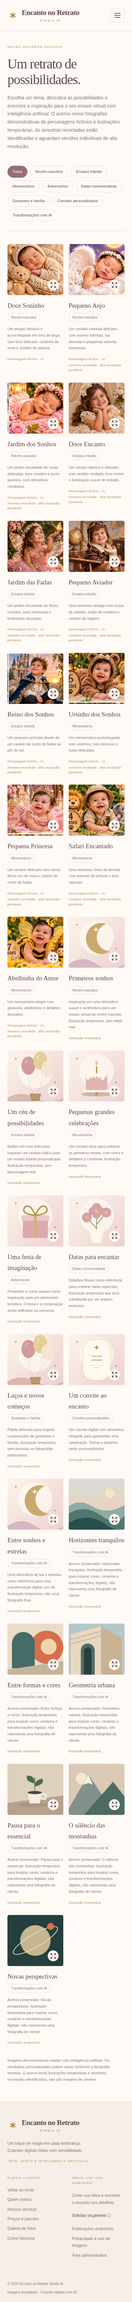
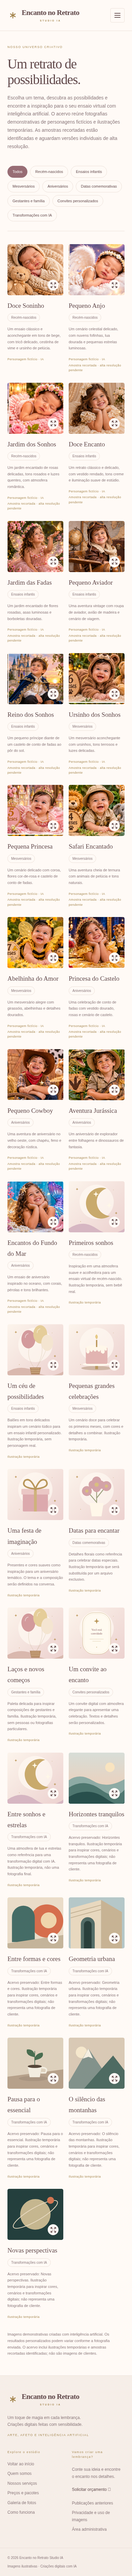
Add themed birthday demo collection with sample quality records and prompt documentation

diff --git a/src/lib/birthday-collection.ts b/src/lib/birthday-collection.ts
@@ -1,0 +1,43 @@
+import type { Photo } from "./studio";
+export const birthdayCollection: Photo[] = [
+  {
+    id: "ani-01",
+    title: "Princesa do Castelo",
+    album: "Aniversários",
+    image: "/images/aniversarios/ANI_01_Princesa_do_Castelo.jpg",
+    description:
+      "Uma celebração de conto de fadas com vestido dourado, rosas e cenário de castelo.",
+    kind: "ai",
+    sample: true,
+  },
+  {
+    id: "ani-02",
+    title: "Pequeno Cowboy",
+    album: "Aniversários",
+    image: "/images/aniversarios/ANI_02_Pequeno_Cowboy.jpg",
+    description:
+      "Uma aventura de aniversário no velho oeste, com chapéu, feno e decoração rústica.",
+    kind: "ai",
+    sample: true,
+  },
+  {
+    id: "ani-03",
+    title: "Aventura Jurássica",
+    album: "Aniversários",
+    image: "/images/aniversarios/ANI_03_Aventura_Jurassica.jpg",
+    description:
+      "Um aniversário de explorador entre folhagens e dinossauros de fantasia.",
+    kind: "ai",
+    sample: true,
+  },
+  {
+    id: "ani-04",
+    title: "Encantos do Fundo do Mar",
+    album: "Aniversários",
+    image: "/images/aniversarios/ANI_04_Fundo_do_Mar.jpg",
+    description:
+      "Um ensaio de aniversário inspirado no oceano, com corais, pérolas e tons brilhantes.",
+    kind: "ai",
+    sample: true,
+  },
+];

diff --git a/src/lib/studio.ts b/src/lib/studio.ts
@@ -2,6 +2,7 @@ import { photos } from "./content";
 import { newbornCollection } from "./newborn-collection";
 import { childrenCollection } from "./children-collection";
 import { monthlyCollection } from "./monthly-collection";
+import { birthdayCollection } from "./birthday-collection";
 import { galleryCategories } from "./gallery";
 export type Photo = {
   id: string;
@@ -58,6 +59,7 @@ export const defaults: StudioContent = {
     ...newbornCollection,
     ...childrenCollection,
     ...monthlyCollection,
+    ...birthdayCollection,
     {
       id: "newborn-demo",
       title: "Primeiros sonhos",

diff --git a/docs/colecoes/ANIVERSARIOS.md b/docs/colecoes/ANIVERSARIOS.md
@@ -1,0 +1,30 @@
+# Aniversários temáticos — somente prévia
+
+Quatro referências foram adicionadas à categoria **Aniversários**, já existente: Princesa do Castelo, Pequeno Cowboy, Aventura Jurássica e Encantos do Fundo do Mar. O catálogo passou a ter 29 referências, sendo cinco nesta categoria (as quatro novas e a ilustração anterior). Todos os registros anteriores e sua ordem relativa foram preservados.
+
+## Qualidade
+
+Todos os JPEGs têm **768 × 512 px**, foram decodificados e inspecionados visualmente e não contêm campos EXIF. São demonstrações de IA, recortadas de uma montagem, com bordas claras e pequenas faixas da composição original. Servem para avaliar os temas na prévia, mas não são fotografias individuais finais em alta resolução.
+
+Os quatro registros têm `kind: ai` e `sample: true`. O cartão e o modal exibem a identificação de demonstração IA e o aviso de amostra recortada, pendente de substituição antes da publicação. Os arquivos foram copiados byte a byte, sem edição, novo recorte, recompactação ou ampliação artificial. Hashes, dimensões e pendências estão no manifesto. Receber e aprovar os quatro originais individuais em alta resolução antes de publicar definitivamente.
+
+## Conteúdo e prompts
+
+- Dados públicos: `src/lib/birthday-collection.ts`, com os títulos e descrições exatos fornecidos.
+- JPEGs originais: `public/images/aniversarios/`.
+- Prompts, orientação comum e avaliação: `docs/colecoes/aniversarios.prompts.json`.
+- Instruções recebidas: `docs/colecoes/INSTRUCOES_E_PROMPTS_ANIVERSARIOS.md`.
+
+A documentação não fica em `public/`, não é uma rota e não é importada pela galeria. Os prompts não foram executados nem exibidos aos visitantes. Não foram adicionados dados de clientes ou credenciais.
+
+## Preservação e testes
+
+Design, CSS, cores, fontes, navegação, preços e componentes de galeria permanecem sem alterações. A integração reutiliza filtros, ampliação, setas, Escape e “Quero um ensaio assim”. O resumo de contato identifica o título e a categoria escolhidos sem transmitir dados automaticamente. Testes cobrem o carregamento dos quatro JPEGs nas dimensões originais, avisos de amostra, títulos, descrição e resumo, além das verificações das coleções anteriores e responsividade.
+
+O catálogo local funciona sem Supabase. Login, upload e gravação pelo painel continuam dependendo da configuração do serviço. Para um banco já preenchido no futuro, importar os registros de forma aditiva: os padrões locais não sobrescrevem o banco. Canais sem links oficiais permanecem indisponíveis; o resumo copiável continua funcionando.
+
+## Visualizar no Windows
+
+Depois do envio confirmado, abra a branch `desenvolvimento-galeria` no GitHub, escolha Code > Download ZIP e extraia em uma pasta nova. Com Node.js LTS instalado, abra `cmd` na pasta com `package.json`, execute `npm ci` e depois `npm run dev`. Acesse `http://localhost:3000/galeria` e selecione **Aniversários**.
+
+Se já usa Git, preserve alterações locais, atualize esta branch com `git pull --ff-only`, execute `npm ci` e reinicie o servidor. Não houve deploy, configuração de domínio ou alteração da main.

diff --git a/docs/colecoes/INSTRUCOES_E_PROMPTS_ANIVERSARIOS.md b/docs/colecoes/INSTRUCOES_E_PROMPTS_ANIVERSARIOS.md
@@ -1,0 +1,36 @@
+# Encanto no Retrato Studio IA — Aniversários temáticos
+
+Estas quatro imagens são RECORTES DE UMA MONTAGEM, apenas para prévia; não são imagens finais em alta resolução. Não publicar definitivamente antes de aprovar versões individuais de alta resolução.
+Categoria sugerida: Aniversários (usar a categoria existente; não criar duplicata).
+Imagens demonstrativas produzidas por IA.
+
+| Arquivo | Título | Descrição |
+|---|---|---|
+| ANI_01_Princesa_do_Castelo.jpg | Princesa do Castelo | Uma celebração de conto de fadas com vestido dourado, rosas e cenário de castelo. |
+| ANI_02_Pequeno_Cowboy.jpg | Pequeno Cowboy | Uma aventura de aniversário no velho oeste, com chapéu, feno e decoração rústica. |
+| ANI_03_Aventura_Jurassica.jpg | Aventura Jurássica | Um aniversário de explorador entre folhagens e dinossauros de fantasia. |
+| ANI_04_Fundo_do_Mar.jpg | Encantos do Fundo do Mar | Um ensaio de aniversário inspirado no oceano, com corais, pérolas e tons brilhantes. |
+
+## Prompts de referência (uso interno)
+Ao personalizar, utilizar somente foto autorizada, tentar preservar características da pessoa, ajustar idade e figurino, sem prometer reprodução idêntica.
+
+### Princesa do Castelo
+Fotografia editorial realista de aniversário infantil, criança usando vestido dourado elegante e tiara, rosas vermelhas, cenário de castelo de conto de fadas, iluminação cinematográfica quente, composição profissional, sem texto ou logotipo.
+
+### Pequeno Cowboy
+Fotografia editorial realista de aniversário infantil, criança com chapéu de cowboy marrom, lenço vermelho, colete e cenário de fazenda vintage com feno, cavalo de pelúcia, luz quente, sem texto ou logotipo.
+
+### Aventura Jurássica
+Fotografia editorial realista de aniversário infantil, criança exploradora com roupa cáqui e chapéu safari, floresta pré-histórica cenográfica, dinossauros de brinquedo, folhagens tropicais, iluminação profissional, sem texto ou logotipo.
+
+### Encantos do Fundo do Mar
+Fotografia editorial realista de aniversário infantil, criança em figurino de sereia fantasia, cenário submarino cenográfico com conchas, corais e pérolas, iluminação azul e rosa, sem texto ou logotipo.
+
+## Orientações ao Codex
+- Trabalhar na branch desenvolvimento-galeria, sem alterar main nem fazer deploy.
+- Preservar design, preços, coleções e filtros existentes.
+- Adicionar os quatro registros à categoria existente de aniversários, sem apagar os demais.
+- Manter visualização ampliada e CTA Quero um ensaio assim.
+- Manter prompts fora da galeria pública.
+- Registrar pendência de substituir recortes por imagens individuais em alta resolução.
+- Confirmar commit/push e instruir atualização local.

diff --git a/docs/GALERIA.md b/docs/GALERIA.md
@@ -2,7 +2,7 @@
 
 ## O que mudou
 
-A rota `/galeria` apresenta as oito categorias solicitadas e 25 referências de ensaio (14 ilustrações anteriores, três fotografias demonstrativas de Recém-nascidos, quatro amostras de Ensaios infantis e quatro de Mesversários). As nove imagens do catálogo anterior continuam presentes, com seus identificadores, títulos e arquivos preservados. Os seis exemplos editoriais anteriores estão agrupados em Transformações com IA como referências de atmosfera e cenários; não são apresentados como retratos finais.
+A rota `/galeria` apresenta as oito categorias solicitadas e 29 referências de ensaio (14 ilustrações anteriores, três fotografias demonstrativas de Recém-nascidos, quatro amostras de Ensaios infantis, quatro de Mesversários e quatro de Aniversários). As nove imagens do catálogo anterior continuam presentes, com seus identificadores, títulos e arquivos preservados. Os seis exemplos editoriais anteriores estão agrupados em Transformações com IA como referências de atmosfera e cenários; não são apresentados como retratos finais.
 
 Cada cartão abre uma imagem ampliada, título, categoria e descrição. O original abre em outra aba sem recortar ou reduzir o arquivo. O acervo anterior usa ilustrações temporárias feitas com auxílio de IA. A coleção Recém-nascidos acrescenta três fotografias demonstrativas de personagens fictícios; duas são amostras recortadas explicitamente identificadas e pendentes de substituição antes da publicação. Veja `docs/colecoes/RECEM_NASCIDOS.md` para a avaliação e os prompts organizados.
 
